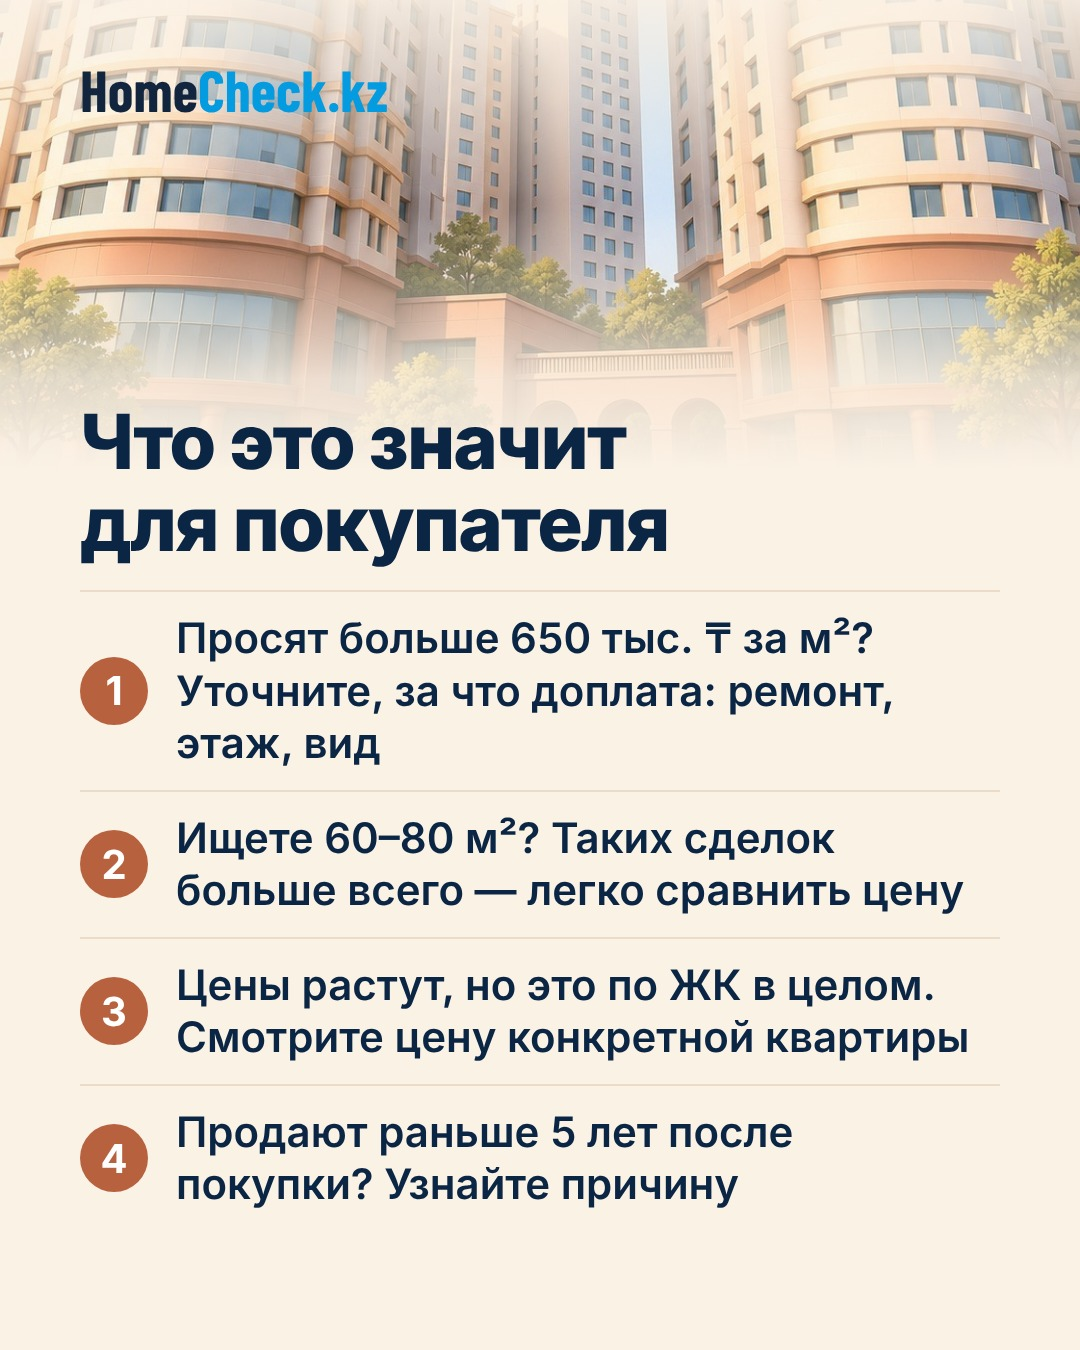
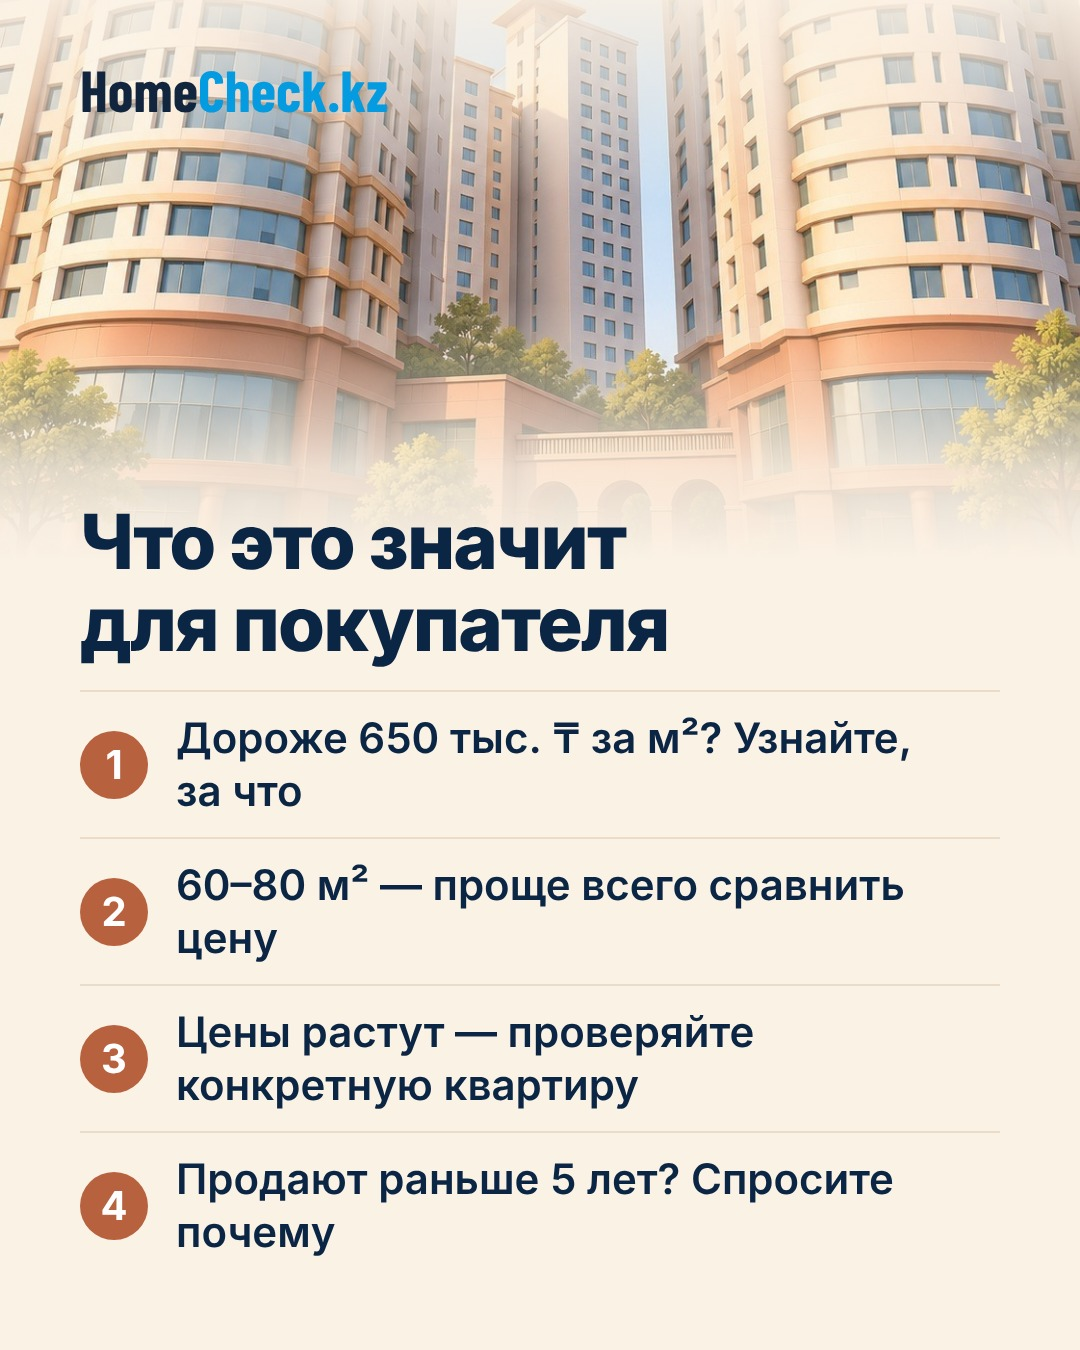
Хайвил: короткие выводы для покупателя
Claude-Session: https://claude.ai/code/session_01YPTRhbcfXRBnSeVtmn8ipe

diff --git a/posts/zhk-bez-filtrov-01-hayvill/build.py b/posts/zhk-bez-filtrov-01-hayvill/build.py
@@ -87,12 +87,12 @@ rows = ''.join(
     f'<div style="display:flex;align-items:center;gap:28px;padding:20px 0;border-top:2px solid #EADCC8">'
     f'<span style="flex:none;width:68px;height:68px;border-radius:50%;background:{TERRA};color:#fff;display:flex;align-items:center;justify-content:center;font-size:40px;font-weight:700">{i}</span>'
     f'<span style="font-size:42px;line-height:1.25;font-weight:600;color:{NAVY}">{t}</span></div>'
-    for i, t in enumerate(['Просят больше 650&nbsp;тыс.&nbsp;₸ за&nbsp;м²? Уточните, за&nbsp;что доплата: ремонт, этаж, вид',
-                           'Ищете 60–80&nbsp;м²? Таких сделок больше всего — легко сравнить цену',
-                           'Цены растут, но это по&nbsp;ЖК в&nbsp;целом. Смотрите цену конкретной квартиры',
-                           'Продают раньше 5&nbsp;лет после покупки? Узнайте причину'], 1))
-S6 = page(top('towers', '50% 90%', 470)
-          + f'<div class="col" style="top:400px"><h2 class="t">Что это значит для&nbsp;покупателя</h2><div style="margin-top:26px">{rows}</div></div>')
+    for i, t in enumerate(['Дороже 650&nbsp;тыс.&nbsp;₸ за&nbsp;м²? Узнайте, за&nbsp;что',
+                           '60–80&nbsp;м² — проще всего сравнить цену',
+                           'Цены растут — проверяйте конкретную квартиру',
+                           'Продают раньше 5&nbsp;лет? Спросите почему'], 1))
+S6 = page(top('towers', '50% 90%', 560)
+          + f'<div class="col" style="top:500px"><h2 class="t">Что это значит для&nbsp;покупателя</h2><div style="margin-top:26px">{rows}</div></div>')
 
 S7 = page(full('courtyard', '50% 100%', 560)
           + f'<div class="col" style="top:170px"><h2 class="t">А что сделки говорят о&nbsp;вашем ЖК?</h2>'
